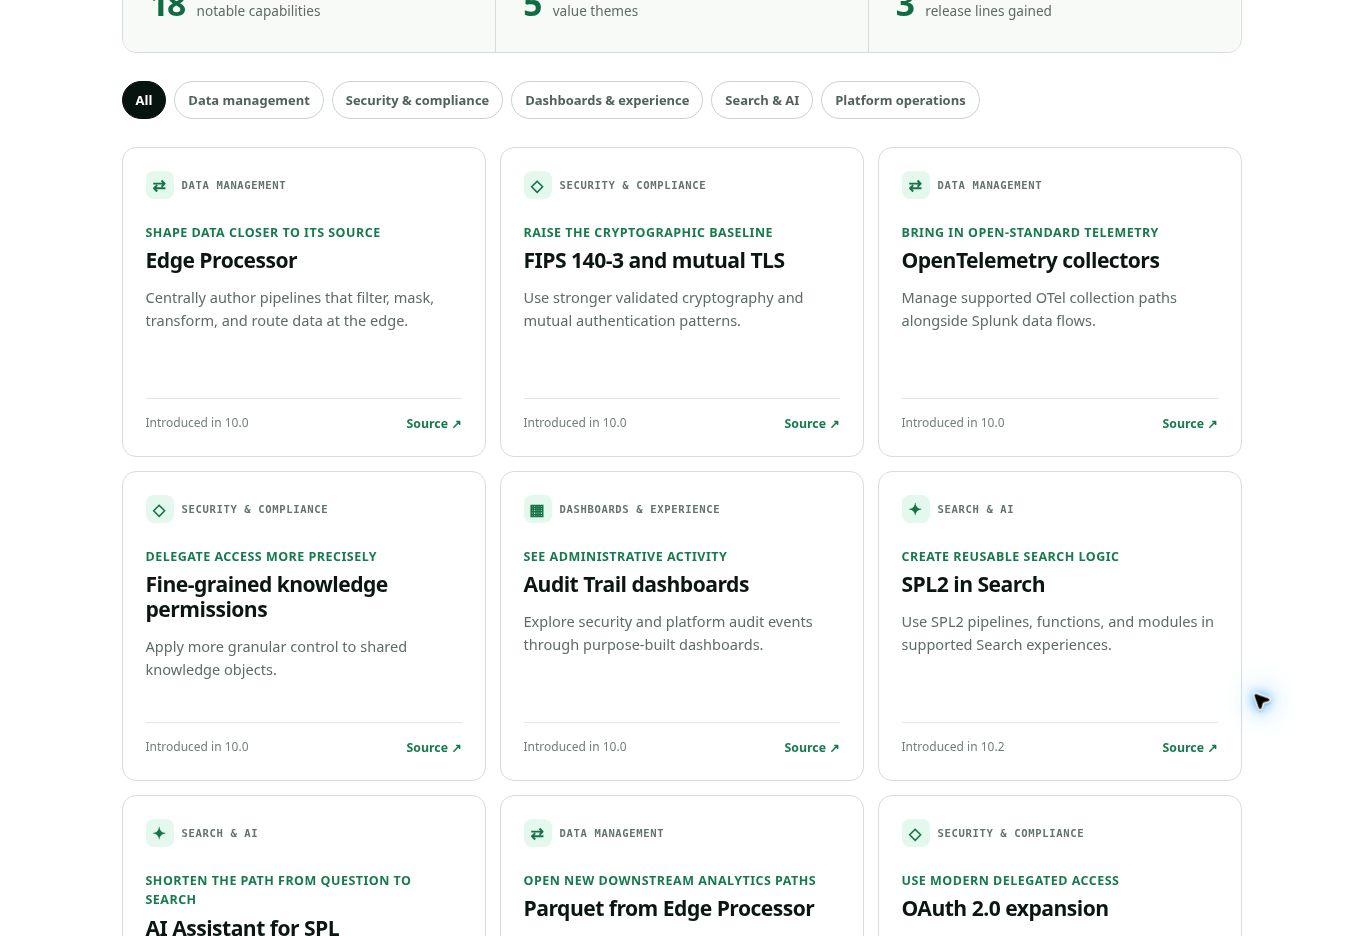
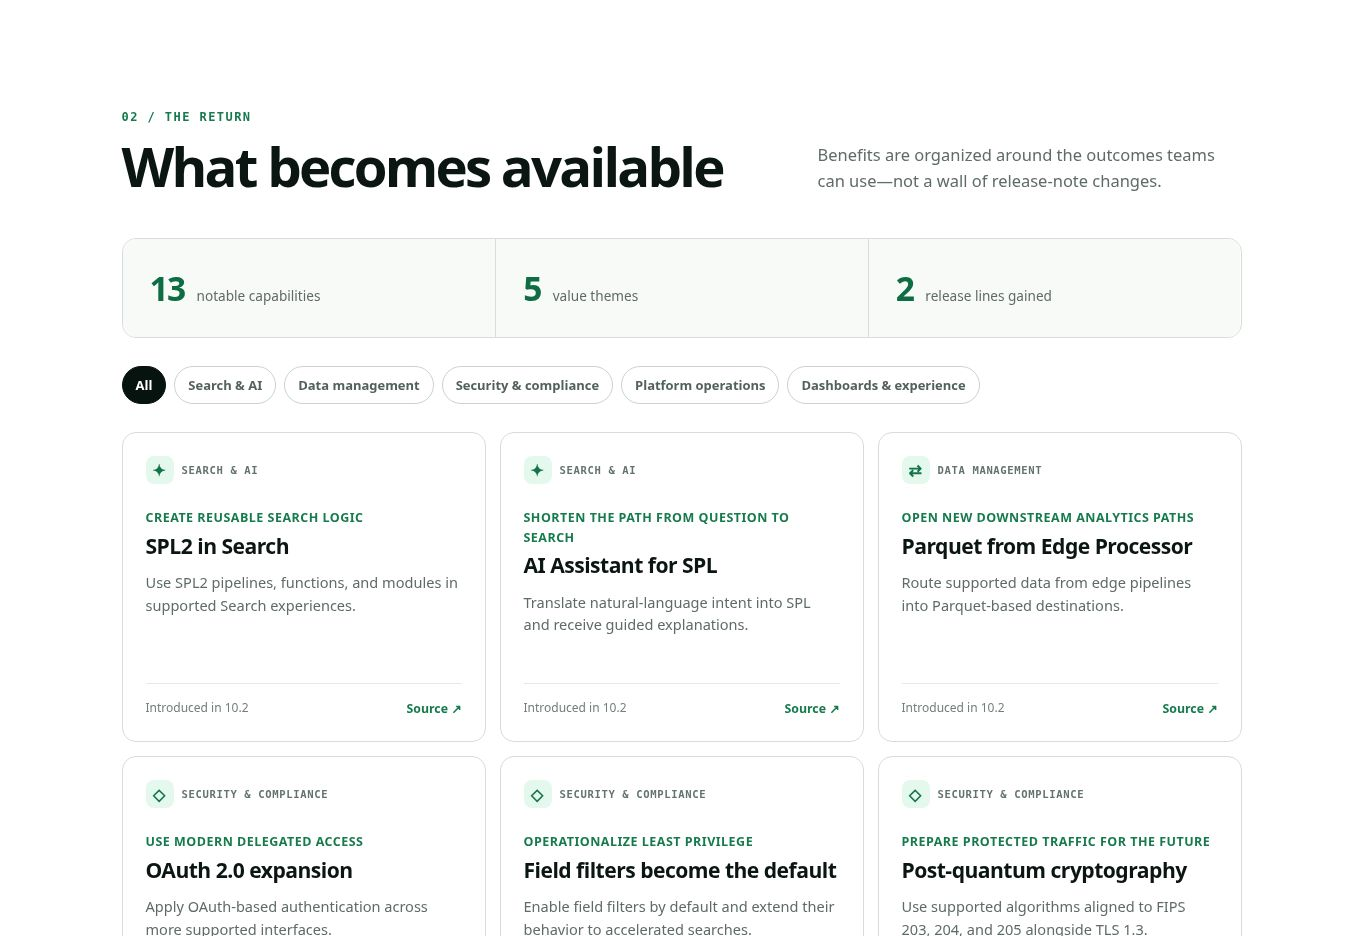
docs: refresh Version Compass screenshots

diff --git a/docs/releases/2026-09-21.md b/docs/releases/2026-09-21.md
@@ -1,0 +1,51 @@
+# September 21, 2026
+
+## Summary
+
+Version Compass refreshed the README screenshots so the repository now shows the current product-first interface, dated review badge, report actions, route counts, and capability layout. The audit found no authoritative release, compatibility, lifecycle, or route-guidance change that required altering the factual datasets.
+
+## Affected products and routes
+
+The refreshed views use the Splunk Platform Enterprise 10.0 to 10.4 route, but the documentation update represents the shared interface used by Splunk Platform, Enterprise-to-Cloud migration, Enterprise Security, ITSI, and Observability Cloud routes. No supported release identifier, upgrade edge, premium-product platform gate, Cloud-managed pairing, or Observability prerequisite changed.
+
+## Customer-facing impact
+
+Repository visitors now see documentation images that match the live product selector and current comparison experience. The live report behavior, route results, public audience, privacy-first design, and no-data-collection posture are unchanged.
+
+## Compatibility, readiness, and breaking-change implications
+
+- No compatibility or readiness recommendation changed.
+- Enterprise Security and ITSI continue to use the existing patch-specific Enterprise compatibility gates; Cloud availability remains Splunk-managed and stack-, region-, entitlement-, and schedule-dependent.
+- The Cloud 10.5 service-detail pairing remains Enterprise Security 8.6 and ITSI 5.0.
+- ITSI 5.0.2 remains the current Splunkbase maintenance release, while Cloud availability is not inferred from that listing.
+- SCMA 5.4.11 and its documented Splunk Enterprise compatibility range remain unchanged.
+- Observability SaaS milestones remain separate from customer-managed Collector, Kubernetes chart, instrumentation, RUM, exporter, and semantic-convention prerequisites.
+
+## Authoritative sources reviewed
+
+- [Splunk Enterprise 10.4 supported upgrade paths](https://help.splunk.com/en/splunk-enterprise/administer/install-and-upgrade/10.4/upgrade-or-migrate-splunk-enterprise/how-to-upgrade-splunk-enterprise/upgrade-paths-to-version-10.4)
+- [Splunk Enterprise 10.4 READ THIS FIRST](https://help.splunk.com/en/splunk-enterprise/administer/install-and-upgrade/10.4/upgrade-or-migrate-splunk-enterprise/about-upgrading-to-10.4-read-this-first)
+- [Splunk products version compatibility matrix](https://help.splunk.com/en/splunk-enterprise/release-notes-and-updates/compatibility-matrix/splunk-products-version-compatibility/splunk-products-version-compatibility-matrix)
+- [Splunk Cloud Platform 10.5 service details](https://help.splunk.com/en/splunk-cloud-platform/get-started/service-terms-and-policies/10.5.2605/information-about-the-service/splunk-cloud-platform-service-details)
+- [Splunk Software Support Policy](https://www.splunk.com/en_us/legal/splunk-software-support-policy.html)
+- [Cloud Migration Assessment App 5.4.11](https://splunkbase.splunk.com/app/4974)
+- [Splunk IT Service Intelligence 5.0.2](https://splunkbase.splunk.com/app/1841)
+- [September 2026 Splunk Observability Cloud release notes](https://help.splunk.com/en/splunk-observability-cloud/release-notes/september-2026)
+- [Splunk OpenTelemetry Collector 0.161.0](https://github.com/signalfx/splunk-otel-collector/releases/tag/v0.161.0)
+- [Splunk OpenTelemetry Collector for Kubernetes chart 0.160.0](https://github.com/signalfx/splunk-otel-collector-chart/releases/tag/splunk-otel-collector-0.160.0)
+
+## Validation
+
+- JavaScript syntax checks for all shared datasets, route logic, interface logic, guidance, and WebMCP registration.
+- All ten WebMCP contract and interaction tests, including exact release validation, batches, citations, UI/tool parity, historical and malformed URLs, lifecycle guidance, print-state restoration, and unsupported-browser behavior.
+- Live representative Platform, Enterprise-to-Cloud, Enterprise Security, ITSI, and Observability routes.
+- Live incompatible Enterprise Security/platform gate and Cloud-managed ITSI availability caveat.
+- Share-URL restoration for product, platform context, host, source, and target; unknown, duplicate, incomplete, and reversed routes remain unresolved rather than exposing a replacement report.
+- Technical detail and lifecycle guidance remain collapsed during ordinary browsing; the test harness confirms temporary print expansion and restoration.
+- All 83 route-specific technical-change records include the nine required fields and a direct HTTPS source. No activation-verification fields are present.
+- Current desktop screenshots were visually reviewed after capture.
+
+## Publication target
+
+- Repository: [LeiterConsulting/splunk-version-value-explorer](https://github.com/LeiterConsulting/splunk-version-value-explorer)
+- Live site: [versioncompass.com](https://versioncompass.com)

diff --git a/docs/releases/README.md b/docs/releases/README.md
@@ -4,6 +4,7 @@ This directory contains concise, repository-only release notes for Version Compa
 
 ## Releases
 
+- [September 21, 2026](2026-09-21.md) — Current product-first interface and capability screenshots
 - [September 19, 2026](2026-09-19.md) — Route takeaways, lifecycle guidance, durable links, WebMCP tools, and Collector 0.161 boundaries
 - [September 18, 2026](2026-09-18.md) — ITSI 5.0.2 maintenance release, MCP pagination, and reliability fixes
 - [September 17, 2026](2026-09-17.md) — Platform runtime guidance, Cloud scope corrections, and ES 8.7 edition boundaries
